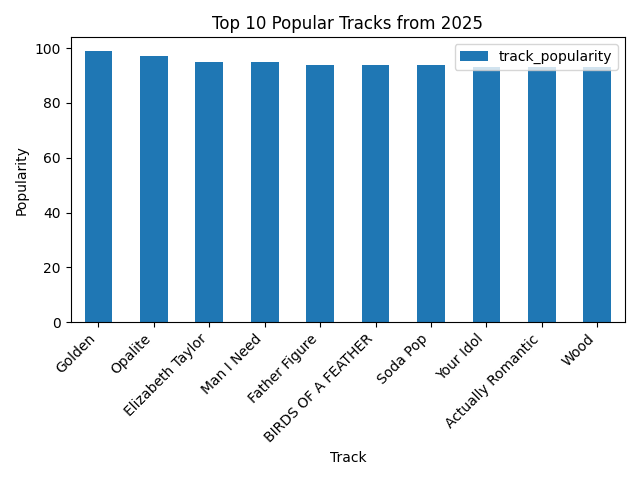
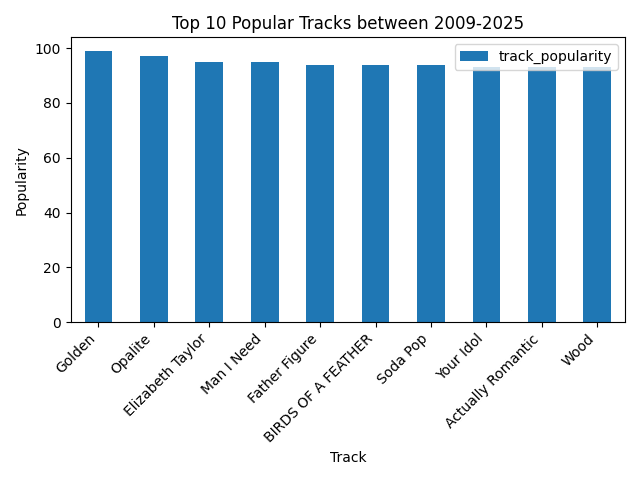
This commit includes the addition of a graph that showcases the average popularity of music over time. It also includes a description for the two visualizations I have done thus far, including what I've learned and what the graphs mean.

Changed region(s): [[0.25, 0.0312, 0.8125, 0.0625]]

diff --git a/data_visualization_spotify/spotify_music_popularity_by_year.py b/data_visualization_spotify/spotify_music_popularity_by_year.py
@@ -1,0 +1,31 @@
+import pandas as pd
+import matplotlib.pyplot as plt
+
+# Load data
+datafile = pd.read_csv("data_visualization_spotify/spotify_data_clean.csv")
+df = pd.DataFrame(datafile)
+
+# This step converts the given column, album_release_date, which holds strings, 
+# to a datetime Type that carries a variable for the year, month, and day
+df['album_release_date'] = pd.to_datetime(df['album_release_date'], errors='coerce')
+
+# This step extracts the year and popularity by assigning them to new columns in the new dataframe
+new_df = pd.DataFrame({
+    'year': df['album_release_date'].dt.year,
+    'popularity': df['track_popularity']
+})
+
+# This step will remove rows where the year couldn't be parsed
+new_df = new_df.dropna(subset=['year'])
+
+# This step converts the year to an integer
+new_df['year'] = new_df['year'].astype(int)
+
+popularity_by_year = new_df.groupby('year')['popularity'].mean()
+
+plt.figure()
+plt.plot(popularity_by_year.index, popularity_by_year.values)
+plt.title("Average Track Popularity Over Time")
+plt.xlabel("Year")
+plt.ylabel("Popularity")
+plt.show()

diff --git a/data_visualization_spotify/spotify_top_tracks.py b/data_visualization_spotify/spotify_top_tracks.py
@@ -2,7 +2,7 @@ import pandas as pd
 import matplotlib.pyplot as plt
 
 # Load data
-datafile = pd.read_csv("data_visualization_spotify\spotify_data_clean.csv")
+datafile = pd.read_csv("data_visualization_spotify/spotify_data_clean.csv")
 
 sort_column = 'track_popularity'
 ascending_order = False
@@ -26,7 +26,7 @@ top_tracks.plot.bar(
     y='track_popularity',
     title='Top 10 Popular Tracks recently'
 )
-plt.title("Top 10 Popular Tracks from 2025")
+plt.title("Top 10 Popular Tracks between 2009-2025")
 plt.xlabel("Track")
 plt.ylabel("Popularity")
 plt.xticks(rotation=45,ha='right')

diff --git a/data_visualization_spotify/README.md b/data_visualization_spotify/README.md
@@ -1,6 +1,47 @@
+# Data Visualization for Spotify Global Music Data
+
 This project explores the visualization of popular tracks and artists on Spotify between 2009-2025.
 
 Our data source is from Kaggle.
 https://www.kaggle.com/datasets/wardabilal/spotify-global-music-dataset-20092025
 
 We used Python libraries, including pandas and matplotlib, to visualize trends in the data.
+
+## Data
+
+The raw data contains music tracks spanning 16 years from 2009 to 2025. 
+
+There are 8582 unique track ids recorded, each accompanied with information over a wide range. For example, this includes:
+* Track name
+* Track popularity
+* Whether the song is explicit or not
+* The name of the song's artist
+* That artist's popularity
+* That artist's follower count (On Spotify)
+* Artist genres
+
+
+## Visualization
+
+### Top 10 Popular Tracks
+
+![Track Popularity](./spotify_top_tracks.png)
+
+This was the first visualization that I did. 
+For starters, I was unfamiliar with the python libraries--pandas and matplotlib. I started with a simple bar graph that has straightforward metrics. These metrics included the track popularity and track name. 
+
+While doing this project, I learned about the basics of data visualization. For example, I firstmost learned what a datafile was, as well as how to sort the data file. I learned simply how to graph using matplotlib, along with using .head() to taken on the first ten values. 
+
+### Music Popularity Trend
+
+![Music Popularity By Year](./spotify_music_popularity_by_year.png)
+
+This was the second visualization. This visualization was more difficult than the last; I wanted to choose a line graph, as well as a more complex prompt that could showcase trends instead of plain statistics. 
+
+Initially, I wanted to model the popularity of different genres over time, but my approach found that the genres listed in the datafile were so diverse that the visualization could not showcase any trends. For example, one song was labeled under the genre 'neo-psychedelic', while I was looking for general categories such as pop or 90's rap. 
+
+Thus, I decided to switch the prompt, and then chose average track popularity over time, in which I could change the label to something quantifiable. I found that choosing the mean instead of the sum of track popularities would better fit because the number of tracks per year varied. 
+
+The next challenge I encountered was that the data needed to be cleaned. The release date was put in terms of year-month-day, but I only needed the year for my data. I learned that I could use a function to convert the string to a datatime type that could extract the year. 
+
+The graph shows an increase in average track popularity from the 1950s to the 1980s, peaking around 1983 at a popularity of about 80. Then, it dropped in the early 1990s, and later stabilized at around 50-55 in the later years. This means that 80's music was generally more popular and there were very popular artists at the time. For example, popular 80s artists include Michael Jackson, Whiteney Houston, and Madonna, who are all incredibly influential in the music industry.
